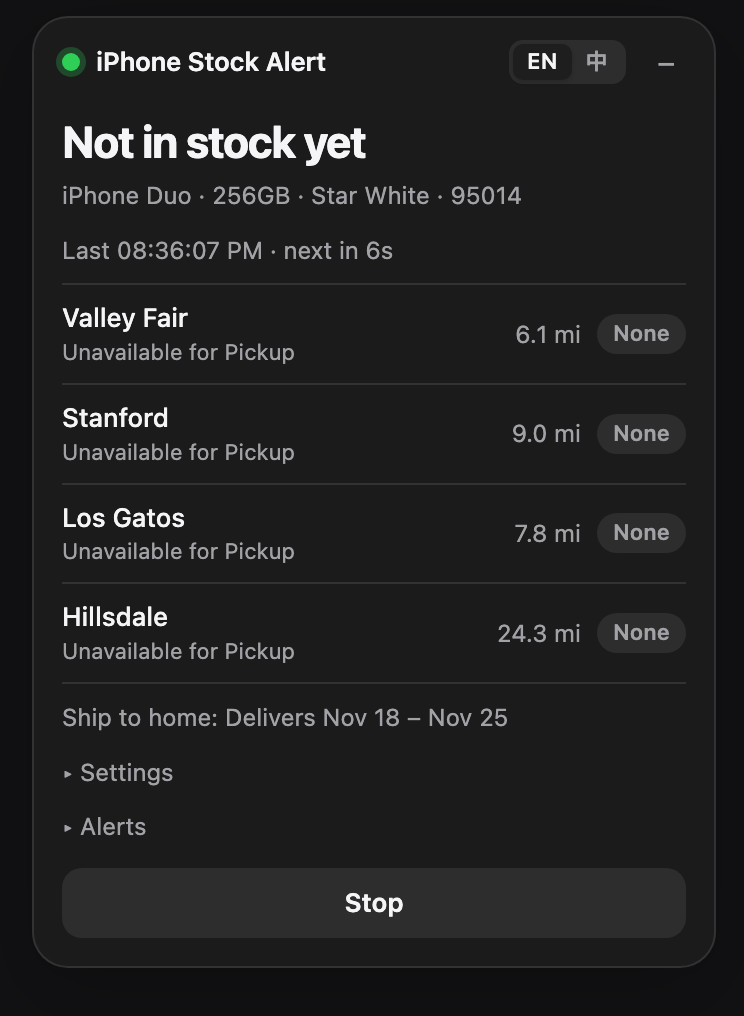
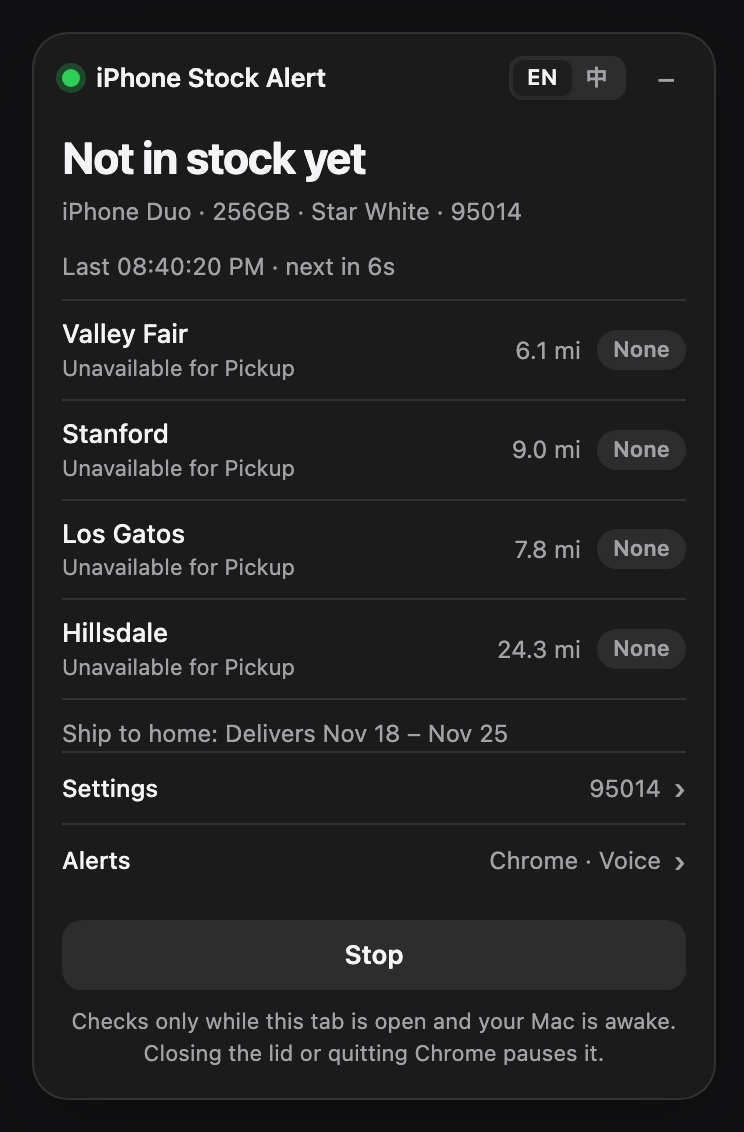
Make panel controls look clickable; say when monitoring pauses
- Settings and Alerts are full-width rows with a chevron and a summary of
  what's set; Test and Copy are outlined in the accent color; fields and
  toggles get visible borders and hover states; keyboard focus rings
- Footer note: checks run only while the tab is open and the Mac awake
- After the Mac sleeps (a check runs 2+ minutes late), the panel shows how
  long monitoring was paused, and the phone gets a push if enabled
- Closing the Apple tab while watching sends a Chrome and phone alert
- Refreshed screenshots

diff --git a/extension/content.js b/extension/content.js
@@ -34,6 +34,12 @@ const STRINGS = {
     chChrome: 'Chrome notification',
     chChromeHint: 'Pops up and brings this tab to the front',
     chChromeHelp: "Didn't see it? In macOS System Settings → Notifications → Google Chrome, allow notifications (and turn off Focus).",
+    notSet: 'Not set',
+    allOff: 'All off',
+    short: { chrome: 'Chrome', voice: 'Voice', phone: 'Phone' },
+    fine: 'Checks only while this tab is open and your Mac is awake. Closing the lid or quitting Chrome pauses it.',
+    gap: (m, at) => `Paused ${m} min (Mac asleep or Chrome paused) · resumed ${at}`,
+    dismiss: 'Dismiss',
     chVoice: 'Say it out loud',
     chVoiceSub: "Repeats until you stop it. Keep your Mac's volume up.",
     chPhone: 'Push to my phone',
@@ -78,6 +84,12 @@ const STRINGS = {
     chChrome: 'Chrome 通知',
     chChromeHint: '弹出通知，并把这个页面切到最前面',
     chChromeHelp: '没看到通知？在 macOS 系统设置 → 通知 → Google Chrome 里允许通知（并关掉专注模式）。',
+    notSet: '未设置',
+    allOff: '全部关闭',
+    short: { chrome: 'Chrome', voice: '语音', phone: '手机' },
+    fine: '只在这个页面开着、Mac 醒着时检查。合上盖子或退出 Chrome 会暂停。',
+    gap: (m, at) => `暂停了 ${m} 分钟（Mac 睡眠或 Chrome 被暂停）· ${at} 已恢复`,
+    dismiss: '关闭',
     chVoice: '语音播报',
     chVoiceSub: '一直重复，直到你点停止。请把 Mac 音量调大。',
     chPhone: '推送到手机',
@@ -106,7 +118,7 @@ const t = (key, ...args) => {
 };
 
 async function getConfig() {
-  const c = await chrome.storage.local.get(['postal', 'target', 'manualPart', 'running', 'panelPos', 'collapsed', 'lang', 'channels', 'ntfyTopic']);
+  const c = await chrome.storage.local.get(['postal', 'target', 'manualPart', 'running', 'panelPos', 'collapsed', 'lang', 'channels', 'ntfyTopic', 'lastGap']);
   const saved = c.channels || {};
   c.channels = Object.fromEntries(Object.entries(DEFAULT_CHANNELS).map(([k, on]) => [k, k in saved ? saved[k] : on]));
   return c;
@@ -235,6 +247,7 @@ root.innerHTML = `
   .lang { display: flex; padding: 2px; border-radius: 7px; background: var(--chip); }
   .lang button { all: unset; padding: 1px 7px; border-radius: 5px; font-size: 11px; font-weight: 600; color: var(--muted); cursor: pointer; }
   .lang button.on { background: var(--bg); color: var(--fg); box-shadow: 0 1px 2px rgba(0,0,0,.15); }
+  .lang button:not(.on):hover { color: var(--blue); }
   .body { padding: 0 14px 14px; overflow-y: auto; min-height: 0; overscroll-behavior: contain; }
   .collapsed .body { display: none; }
   .headline { font-size: 22px; font-weight: 700; letter-spacing: -.02em; margin: 2px 0 2px; }
@@ -250,15 +263,24 @@ root.innerHTML = `
   .pill.yes { background: var(--green); color: #fff; }
   .note { margin-top: 8px; color: var(--muted); font-size: 12px; }
   .err { margin-top: 8px; padding: 8px 10px; border-radius: 10px; background: color-mix(in srgb, var(--amber) 14%, transparent); color: var(--fg); font-size: 12px; }
-  details { margin-top: 10px; }
-  summary { cursor: pointer; color: var(--muted); font-size: 12px; list-style: none; }
-  summary::before { content: '▸ '; }
-  details[open] summary::before { content: '▾ '; }
-  .fields { display: grid; grid-template-columns: 1fr 1fr; gap: 8px; margin-top: 8px; }
+  details { border-top: 1px solid var(--line); }
+  .meta + .stores, .note + details, .err + details { margin-top: 0; }
+  summary { display: flex; align-items: center; gap: 6px; padding: 9px 0; cursor: pointer; list-style: none;
+            font-size: 12px; font-weight: 500; color: var(--fg); }
+  summary::-webkit-details-marker { display: none; }
+  summary .peek { flex: 1; min-width: 0; text-align: right; color: var(--muted); font-weight: 400;
+                  overflow: hidden; white-space: nowrap; text-overflow: ellipsis; }
+  summary::after { content: '›'; color: var(--muted); font-size: 15px; line-height: 1; transition: transform .15s; }
+  details[open] > summary::after { transform: rotate(90deg); }
+  summary:hover, summary:hover::after { color: var(--blue); }
+  details[open] > summary { padding-bottom: 4px; }
+  details > :last-child { margin-bottom: 10px; }
+  .fields { display: grid; grid-template-columns: 1fr 1fr; gap: 8px; }
   .wide { grid-column: 1 / -1; }
   label { display: grid; gap: 3px; color: var(--muted); font-size: 11px; }
   input:not([type=checkbox]), select { all: unset; box-sizing: border-box; width: 100%; padding: 6px 8px; border-radius: 8px; background: var(--chip);
-          color: var(--fg); font-size: 13px; border: 1px solid transparent; }
+          color: var(--fg); font-size: 13px; border: 1px solid var(--line); }
+  input:not([type=checkbox]):hover, select:hover { border-color: color-mix(in srgb, var(--fg) 25%, transparent); }
   select { cursor: pointer; background-image: linear-gradient(45deg, transparent 50%, var(--muted) 50%), linear-gradient(135deg, var(--muted) 50%, transparent 50%);
            background-position: calc(100% - 13px) 50%, calc(100% - 9px) 50%; background-size: 4px 4px; background-repeat: no-repeat; padding-right: 24px; }
   select option { color: #1d1d1f; }
@@ -267,14 +289,15 @@ root.innerHTML = `
   .ch + .ch, .howto + .ch { border-top: 1px solid var(--line); }
   button.check { all: unset; display: flex; align-items: flex-start; gap: 8px; flex: 1; cursor: pointer; color: var(--fg); font-size: 13px; }
   button.check small { display: block; color: var(--muted); font-size: 11px; }
-  .tick { width: 14px; height: 14px; margin-top: 2px; flex: none; border-radius: 4px; border: 1.5px solid var(--muted);
+  .tick { width: 14px; height: 14px; margin-top: 2px; flex: none; border-radius: 4px; border: 1.5px solid color-mix(in srgb, var(--fg) 40%, transparent);
           display: grid; place-items: center; color: #fff; font-size: 11px; font-weight: 700; line-height: 1; }
   .check[aria-checked="true"] .tick { background: var(--blue); border-color: var(--blue); }
   .check[aria-checked="true"] .tick::after { content: '✓'; }
-  .check:focus-visible .tick { outline: 2px solid var(--blue); outline-offset: 2px; }
+  .check:hover .tick { border-color: var(--blue); }
   .card.flash { animation: pulse 1s ease-in-out 3; border-color: var(--red); }
-  button.chip { all: unset; padding: 3px 9px; border-radius: 7px; background: var(--chip); color: var(--fg); font-size: 11px; font-weight: 600; cursor: pointer; white-space: nowrap; }
-  button.chip:hover { filter: brightness(.95); }
+  button.chip { all: unset; padding: 2px 9px; border-radius: 7px; border: 1px solid color-mix(in srgb, var(--blue) 40%, transparent);
+                 color: var(--blue); font-size: 11px; font-weight: 600; cursor: pointer; white-space: nowrap; }
+  button.chip:hover { background: color-mix(in srgb, var(--blue) 10%, transparent); }
   .howto { margin: 0 0 8px 23px; color: var(--muted); font-size: 11px; }
   .code { display: flex; align-items: center; gap: 6px; margin-top: 5px; padding: 6px 6px 6px 8px; border-radius: 8px; background: var(--chip); }
   .code code { flex: 1; min-width: 0; font: 11px/1.4 ui-monospace, SFMono-Regular, Menlo, monospace; color: var(--fg); word-break: break-all; }
@@ -285,6 +308,11 @@ root.innerHTML = `
   .btn.secondary { background: var(--chip); color: var(--fg); }
   .btn.danger { background: var(--red); color: #fff; }
   .btn:hover { filter: brightness(1.08); }
+  .fine { margin-top: 8px; color: var(--muted); font-size: 11px; text-align: center; }
+  .gap { display: flex; align-items: flex-start; gap: 8px; margin-top: 8px; padding: 7px 8px 7px 10px; border-radius: 10px;
+         background: var(--chip); color: var(--fg); font-size: 12px; }
+  .gap span { flex: 1; }
+  button:focus-visible, summary:focus-visible { outline: 2px solid var(--blue); outline-offset: 2px; border-radius: 6px; }
   [hidden] { display: none !important; }
 
   .card[data-state="ok"] .dot { background: var(--green); box-shadow: 0 0 0 3px color-mix(in srgb, var(--green) 25%, transparent); }
@@ -310,8 +338,9 @@ root.innerHTML = `
     <div class="stores"></div>
     <div class="note" data-v="delivery"></div>
     <div class="err" data-v="error" hidden></div>
+    <div class="gap" data-v="gap" hidden><span data-v="gapText"></span><button class="icon" data-a="dismissGap">×</button></div>
     <details>
-      <summary data-t="settings"></summary>
+      <summary><span data-t="settings"></span><span class="peek" data-v="settingsPeek"></span></summary>
       <div class="fields">
         <label class="wide"><span data-t="model"></span><select data-k="model"></select></label>
         <label class="wide" data-v="manual" hidden><span data-t="part"></span><input data-k="manualPart" placeholder="MK1E4LL/A"></label>
@@ -319,7 +348,7 @@ root.innerHTML = `
       </div>
     </details>
     <details data-v="alerts">
-      <summary data-t="alerts"></summary>
+      <summary><span data-t="alerts"></span><span class="peek" data-v="alertsPeek"></span></summary>
       <div class="ch">
         <button class="check" role="checkbox" data-ch="chrome"><span class="tick"></span><span><span data-t="chChrome"></span><small data-t="chChromeHint"></small></span></button>
         <button class="chip" data-test="chrome" data-t="test"></button>
@@ -342,6 +371,7 @@ root.innerHTML = `
       <button class="btn primary" data-a="toggle"></button>
       <button class="btn danger" data-a="ack" data-t="ack" hidden></button>
     </div>
+    <div class="fine" data-t="fine"></div>
   </div>
 </div>`;
 document.documentElement.appendChild(host);
@@ -386,6 +416,12 @@ async function render() {
     (view.checkedAt ? t('last', clock(view.checkedAt)) : t('never')) + (view.running && left != null ? t('next', left) : '');
 
   for (const [k, on] of Object.entries(c.channels)) $(`[data-ch=${k}]`).setAttribute('aria-checked', String(on));
+  const enabled = Object.keys(c.channels).filter((k) => c.channels[k]);
+  $('[data-v=alertsPeek]').textContent = enabled.length ? enabled.map((k) => t('short')[k]).join(' · ') : t('allOff');
+  $('[data-v=settingsPeek]').textContent = model && c.postal ? `${c.postal}` : t('notSet');
+  $('[data-v=gap]').hidden = !c.lastGap;
+  if (c.lastGap) $('[data-v=gapText]').textContent = t('gap', c.lastGap.minutes, clock(c.lastGap.at));
+  $('[data-a=dismissGap]').title = t('dismiss');
   $('[data-v=chromeHelp]').hidden = !view.chromeTested;
   $('[data-v=phoneHow]').hidden = !c.channels.phone;
   $('[data-v=topic]').textContent = c.ntfyTopic || '';
@@ -540,6 +576,8 @@ root.addEventListener('click', async (e) => {
   } else if (a === 'ack') {
     stopFlash();
     chrome.runtime.sendMessage({ type: 'ack' });
+  } else if (a === 'dismissGap') {
+    await chrome.storage.local.set({ lastGap: null });
   } else if (a === 'collapse') {
     const c = await getConfig();
     await chrome.storage.local.set({ collapsed: !c.collapsed });

diff --git a/extension/background.js b/extension/background.js
@@ -9,13 +9,14 @@ const MIN_RELOAD_GAP_MS = 5 * 60_000;
 const HEALTHY_RELOAD_MS = 30 * 60_000; // refresh Apple's cookies now and then
 const TAB_TIMEOUT_MS = 20_000;
 const FAILING_WARN_MS = 5 * 60_000;
+const GAP_MS = 2 * 60_000; // a check this late means the Mac slept or Chrome was paused
 const VOICE_MAX_MS = 15 * 60_000;
 const DEFAULT_CHANNELS = { chrome: true, voice: true, phone: false };
 
 let timer = null;
 
 const getState = () =>
-  chrome.storage.local.get(['running', 'tabId', 'fails', 'failingSince', 'lastReloadAt', 'alerted']);
+  chrome.storage.local.get(['running', 'tabId', 'fails', 'failingSince', 'lastReloadAt', 'alerted', 'nextAt']);
 
 async function getPrefs() {
   const p = await chrome.storage.local.get(['lang', 'channels', 'ntfyTopic']);
@@ -107,6 +108,25 @@ async function warnFailing() {
   if (channels.voice) speak(text, zh, false);
 }
 
+// Checks can't run while the Mac sleeps, so say how long they were paused once they're back.
+async function reportGap(minutes) {
+  await chrome.storage.local.set({ lastGap: { minutes, at: Date.now() } });
+  const { zh, channels, topic } = await getPrefs();
+  const text = zh
+    ? `监控暂停了 ${minutes} 分钟（Mac 睡眠或 Chrome 被暂停），现在已恢复。`
+    : `Monitoring was paused for ${minutes} min (Mac asleep or Chrome paused). It's running again.`;
+  if (channels.phone && topic) pushPhone(topic, 'iPhone Stock Alert', text, '');
+}
+
+async function reportTabClosed() {
+  const { zh, channels, topic } = await getPrefs();
+  const text = zh
+    ? '监控已停止：Apple 页面被关掉了。重新打开该页面即可继续。'
+    : 'Monitoring stopped: the Apple page was closed. Open it again to resume.';
+  if (channels.chrome) notifyChrome('iPhone Stock Alert', text);
+  if (channels.phone && topic) pushPhone(topic, 'iPhone Stock Alert', text, '');
+}
+
 async function testChannel(channel) {
   const { zh, topic } = await getPrefs();
   const title = zh ? 'iPhone 到货提醒测试' : 'iPhone Stock Alert test';
@@ -150,8 +170,10 @@ async function tick() {
   chrome.power.requestKeepAwake('system'); // the screen may sleep, the Mac may not
   if (s.tabId == null) {
     badge('?', '#888');
+    await chrome.storage.local.set({ nextAt: null });
     return; // waits for a 'hello' from an open iPhone buy page
   }
+  if (s.nextAt && Date.now() - s.nextAt > GAP_MS) await reportGap(Math.round((Date.now() - s.nextAt) / 60_000));
 
   let r;
   try {
@@ -187,8 +209,8 @@ async function tick() {
     }
   }
 
-  await chrome.storage.local.set({ fails, failingSince });
   const delay = nextDelay(fails);
+  await chrome.storage.local.set({ fails, failingSince, nextAt: Date.now() + delay });
   schedule(delay);
   pushStatus(s.tabId, true, Date.now() + delay);
 }
@@ -208,12 +230,12 @@ chrome.runtime.onMessage.addListener((msg, sender, reply) => {
     });
   } else if (msg.type === 'start') {
     chrome.storage.local
-      .set({ running: true, fails: 0, failingSince: null, alerted: [], lastReloadAt: Date.now() })
+      .set({ running: true, fails: 0, failingSince: null, alerted: [], lastReloadAt: Date.now(), nextAt: null, lastGap: null })
       .then(() => schedule(0));
   } else if (msg.type === 'stop') {
     clearTimeout(timer);
     timer = null;
-    chrome.storage.local.set({ running: false });
+    chrome.storage.local.set({ running: false, nextAt: null });
     chrome.power.releaseKeepAwake();
     stopVoice();
     badge('', '#888');
@@ -243,7 +265,9 @@ chrome.notifications.onClicked.addListener(async () => {
 
 chrome.tabs.onRemoved.addListener(async (tabId) => {
   const s = await getState();
-  if (tabId === s.tabId) await chrome.storage.local.set({ tabId: null });
+  if (tabId !== s.tabId) return;
+  await chrome.storage.local.set({ tabId: null, nextAt: null });
+  if (s.running) reportTabClosed();
 });
 
 // Chrome can shut down this service worker; the alarm wakes it up and restarts the loop.

diff --git a/README.md b/README.md
@@ -46,7 +46,7 @@ Choose any combination in the panel. Each one has a **Test** button. Nothing to 
 
 ## Keep it running
 
-- **Keep the lid open.** A sleeping Mac checks nothing. While watching, the extension keeps the Mac awake (the screen can still turn off).
+- **Keep the lid open.** A sleeping Mac checks nothing. While watching, the extension keeps the Mac awake (the screen can still turn off). If checks were paused anyway, the panel says for how long, and so does your phone if phone alerts are on. Closing the Apple tab also sends an alert.
 - **Keep Chrome from pausing the tab:** in `chrome://settings/performance`, add `apple.com` to *Always keep these sites active*.
 - If Apple temporarily blocks checks (`HTTP 541`), the extension backs off on its own and recovers. If checks keep failing for 5 minutes, it tells you once.
 
